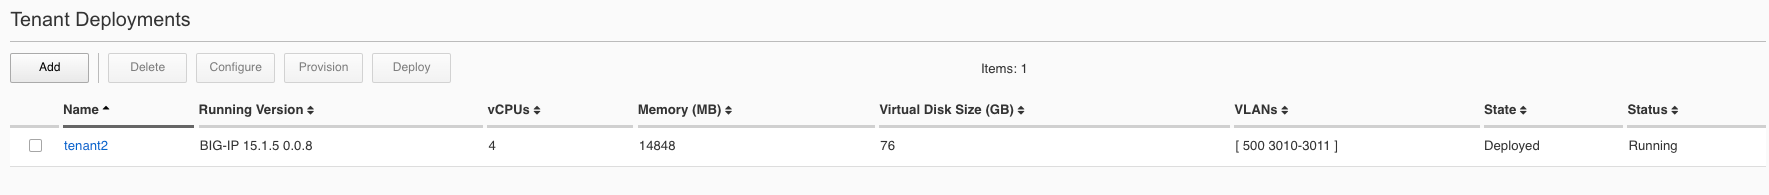
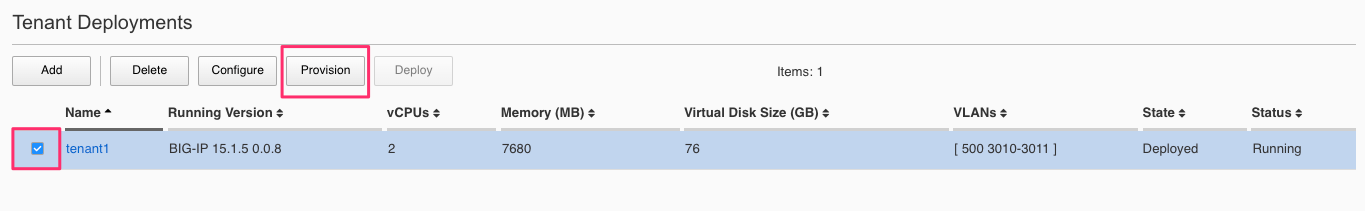
resizing

diff --git a/docs/rseries_deploying_a_tenant.rst b/docs/rseries_deploying_a_tenant.rst
@@ -671,15 +671,21 @@ Below is GUI output of a single tenant that is in the deployed and running state
   :align: center
   :scale: 70% 
 
-Click **OK**. This will move the tenant from **deployed** to **provisioned** state. You will see the tenant go from **running**, to **stopping** to **stopped**.
+A pop-up will appear letting you know this will stop the tenant and disrupt traffic, click **OK**. 
 
 .. image:: images/rseries_deploying_a_tenant/image83.png
   :align: center
   :scale: 70% 
 
+This will move the tenant from **Deployed** to **Provisioned** state. You will see the tenant go from **Running**, to **Stopping** to **Stopped**.
+
 .. image:: images/rseries_deploying_a_tenant/image84.png
   :align: center
   :scale: 70% 
+
+.. image:: images/rseries_deploying_a_tenant/image85.png
+  :align: center
+  :scale: 70%   
 
 Next click on the hyperlink for tenant1. This will bring you into the configuration page for that tenant.  Change the **vCPUs** to **4**, and the **Memory** to **14848**, and set the state back to **deployed**. When finished click **Save** and the tenant will start up again with the new configuration.
 
